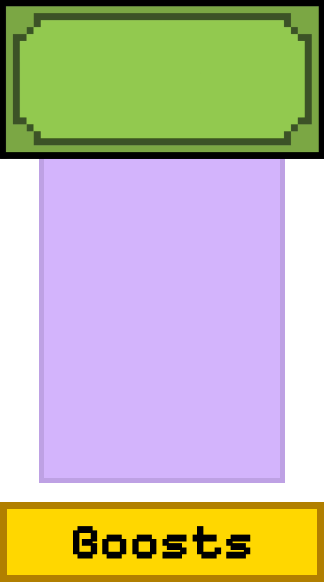
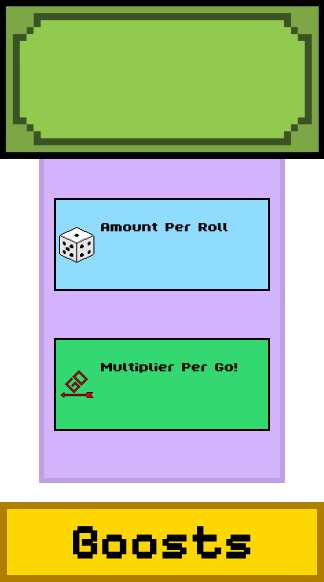
buying boots affect player boost and price of boosts aswell as the progress of boost stage

Changed region(s): [[0.1543, 0.5567, 0.8333, 0.7423], [0.1543, 0.3402, 0.8333, 0.5258]]

diff --git a/boosts.py b/boosts.py
@@ -2,29 +2,78 @@ import pygame
 import gc
 import pygame_gui
 
+import Player
+from helper import display_money,display_text
+
 def clear_screen(screen):
     screen.fill((255, 255, 255))
     pygame.display.flip()
     gc.collect()
 
-main_background = pygame.image.load("./images/boosts/main_page.png")
-right_button = pygame.image.load('./images/right_arrow.png')
-left_button = pygame.image.load('./images/left_arrow.png')
-lb_rect = pygame.Rect((34,519),left_button.get_size())
-rb_rect = pygame.Rect((259,519),right_button.get_size())
+imgs = {
+    "main_page":pygame.image.load("./images/boosts/main_page.png"),
+    "right_button":pygame.image.load('./images/right_arrow.png'),
+    "left_button":pygame.image.load('./images/left_arrow.png'),
+    "buy_roll":pygame.image.load('./images/boosts/buy_roll.png'),
+    "buy_go":pygame.image.load('./images/boosts/buy_go.png'),
+    "1_bar_1":pygame.image.load('./images/boosts/1_bar_1.png'),
+    "2_bar_2":pygame.image.load('./images/boosts/2_bar_2.png'),
+    "3_bar_3":pygame.image.load('./images/boosts/3_bar_3.png'),
+    "4_bar_4":pygame.image.load('./images/boosts/4_bar_4.png'),
+    "5_bar_5":pygame.image.load('./images/boosts/5_bar_5.png'),
+    "1_bar":pygame.image.load('./images/boosts/1_bar.png'),
+    "2_bar":pygame.image.load('./images/boosts/2_bar.png'),
+    "3_bar":pygame.image.load('./images/boosts/3_bar.png'),
+    "4_bar":pygame.image.load('./images/boosts/4_bar.png'),
+    "5_bar":pygame.image.load('./images/boosts/5_bar.png')
+}
+
+rect = {
+    "right_button":pygame.Rect((259,519),imgs["right_button"].get_size()),
+    "left_button":pygame.Rect((34,519),imgs["left_button"].get_size()),
+    "buy_roll":pygame.Rect((101,252),imgs["buy_roll"].get_size()),
+    "buy_go":pygame.Rect((101,392),imgs["buy_go"].get_size()),
+    "1_bar_1":pygame.Rect((101,375),imgs["1_bar_1"].get_size()),
+    "2_bar_2":pygame.Rect((101,375),imgs["2_bar_2"].get_size()),
+    "3_bar_3":pygame.Rect((101,375),imgs["3_bar_3"].get_size()),
+    "4_bar_4":pygame.Rect((101,375),imgs["4_bar_4"].get_size()),
+    "5_bar_5":pygame.Rect((101,375),imgs["5_bar_5"].get_size()),
+    "1_bar":pygame.Rect((101,235),imgs["1_bar"].get_size()),
+    "2_bar":pygame.Rect((101,235),imgs["2_bar"].get_size()),
+    "3_bar":pygame.Rect((101,235),imgs["3_bar"].get_size()),
+    "4_bar":pygame.Rect((101,235),imgs["4_bar"].get_size()),
+    "5_bar":pygame.Rect((101,235),imgs["5_bar"].get_size())
+}
+
+boost_price = {1:300,2:600,3:1200,4:2400,5:"Sold Out"}
 
 def render_boosts(screen,player):
-    screen.blit(main_background, (0,0))
-    screen.blit(right_button, rb_rect)
-    screen.blit(left_button, lb_rect)
-
-
     def button_clicked(screen,event_pos):
-        if(lb_rect.collidepoint(event_pos)):
+        if(rect["left_button"].collidepoint(event_pos)):
             return "buffs"
-        if(rb_rect.collidepoint(event_pos)):
+        elif(rect["right_button"].collidepoint(event_pos)):
             return "leaderboard"
+        elif(rect['buy_roll'].collidepoint(event_pos)):
+            player.update_boosts("roll",boost_price[player.boosts["roll"]])
+        elif(rect['buy_go'].collidepoint(event_pos)):
+            player.update_boosts("go",boost_price[player.boosts["go"]])
+        
+        render_boosts(screen,player)
         return None
+    
+    for img in imgs:
+        if(img[0].isalpha() or 
+           (img[0].isdigit() and img[-1].isdigit() and int(img[0]) == player.boosts["go"]) or
+           (img[0].isdigit() and not img[-1].isdigit() and int(img[0]) == player.boosts["roll"])): #means it is roll
+            screen.blit(imgs[img], rect.get(img,(0,0)))
+
+
+    roll_text = "$"+str(boost_price[player.boosts["roll"]]) if player.boosts["roll"] != 5 else str(boost_price[player.boosts["roll"]])
+    go_text = "$"+str(boost_price[player.boosts["go"]]) if player.boosts["go"] != 5 else str(boost_price[player.boosts["go"]])
+
+    display_text(screen,roll_text,25,(255,255,255),"pixelifysansregular",(173,265))
+    display_text(screen,go_text,25,(255,255,255),"pixelifysansregular",(173,405))
+    display_money(screen,player)
 
     return button_clicked
 

diff --git a/Player.py b/Player.py
@@ -1,14 +1,22 @@
-property_multiplier = {"pink": 1.1, "orange":1.2, "red":1.3, "yellow":1.4, "green":1.5, "dark_blue":1.6, "brown":1.7, "light_blue":1.8}
-
+property_value = {"pink":{0:250,1:300,2:360,3:576,4:691},
+                  "orange":{0:1250,1:1350,2:1500,3:1800,4:2160},
+                  "red":{0:2500,1:3000,2:3600,3:4320,4:5180},
+                  "yellow":{0:3750,1:4500,2:5400,3:6480,4:7780},
+                  "green":{0:12500,1:15000,2:18000,3:21600,4:25900},
+                  "blue":{0:25000,1:30000,2:36000,3:43200,4:51800},
+                  "brown":{0:125000,1:150000,2:180000,3:216000,4:259000},
+                  "cyan":{0:250000,1:300000,2:360000,3:432000,4:5180000}}
+boosts_multipler = {"roll":{1:10,2:30,3:90,4:270,5:810},"go":{1:1.1,2:1.25,3:1.5,4:1.75,5:2}}
 
 class Player:
     def __init__(self):
-        self.money = 2000
-        self.base_roll = 10
+        self.money = 100000000
+        self.base_roll = boosts_multipler["roll"][1]
         self.base_go = 200
         self.properties = {} #{'color_number':owned_state,...}  color_number = pink_1, owned_state = 0 (owned), 1 (1 classroom), etc up to 4 classrooms
         self.buffs = [] #double dice, prop_disc, 
         self.position = 32
+        self.boosts = {"roll":1,"go":1} 
         pass
 
     def update_property(self,property:str): #property = str "pink_1"
@@ -18,14 +26,14 @@ class Player:
             self.properties[property] = 0
     
     def pass_go(self): #user has passed go
-        total_multiplier = 0
+        prop_total = 0
         for color in self.properties:
-            total *= property_multiplier[color.split('_')[0]]
+            prop_total += property_value[color.split("_")[0]][self.properties[color]]
         
-        self.money += self.base_go * total_multiplier
+        self.money += (self.base_go + prop_total) * boosts_multipler["go"][self.boosts["go"]]
 
     def roll(self,dice_total:int): #user has rolled
-        self.money += self.base_roll * dice_total
+        self.money += boosts_multipler["roll"][self.boosts["roll"]] * dice_total
 
     def upgrade(self,upg_type:str): #upg_type = "roll"/"go"
         if(upg_type == "roll"):
@@ -38,3 +46,9 @@ class Player:
             self.buffs.append(buff)
             self.money -= price
 
+    def update_boosts(self,boost:str,price:int): #boost = "roll"/"go"
+        print(self.boosts[boost] < 5 and self.money >= price)
+        if self.boosts[boost] < 5 and self.money >= price:
+            self.boosts[boost] += 1
+            self.money -= price
+        

diff --git a/helper.py b/helper.py
@@ -1,5 +1,5 @@
 import pygame
-
+import Player
 def format_money(money):
     if(money >= 1000000000):
         return f"{money/1000000000:.1f}b"
@@ -9,9 +9,16 @@ def format_money(money):
         return f"{money/1000:.1f}k"
     return str(money)
 
-def display_money(screen,player):
+def display_money(screen,player:Player):
     font = pygame.font.SysFont("ByteBounce", 80)
     money = font.render("$" + format_money(player.money),True,(60,83,39))
     money_rect = money.get_rect(center = (162,80))
+
+    screen.blit(money,money_rect)
+
+def display_text(screen,text,size,color,font,location):
+    font = pygame.font.SysFont(font, size)
+    money = font.render(text,True,color)
+    money_rect = money.get_rect(center = location)
 
     screen.blit(money,money_rect)

diff --git a/leaderboard.py b/leaderboard.py
@@ -11,7 +11,7 @@ main_background = pygame.image.load("./images/leaderboard/main_page.png")
 left_button = pygame.image.load('./images/last_left_arrow.png')
 lb_rect = pygame.Rect((31,509),left_button.get_size())
 
-def render_leaderboard(screen):
+def render_leaderboard(screen,player):
     screen.blit(main_background, (0,0))
     screen.blit(left_button, lb_rect)
 

diff --git a/buffs.py b/buffs.py
@@ -1,6 +1,7 @@
 import pygame
 import gc
 import pygame_gui
+
 import Player
 from helper import display_money
 
